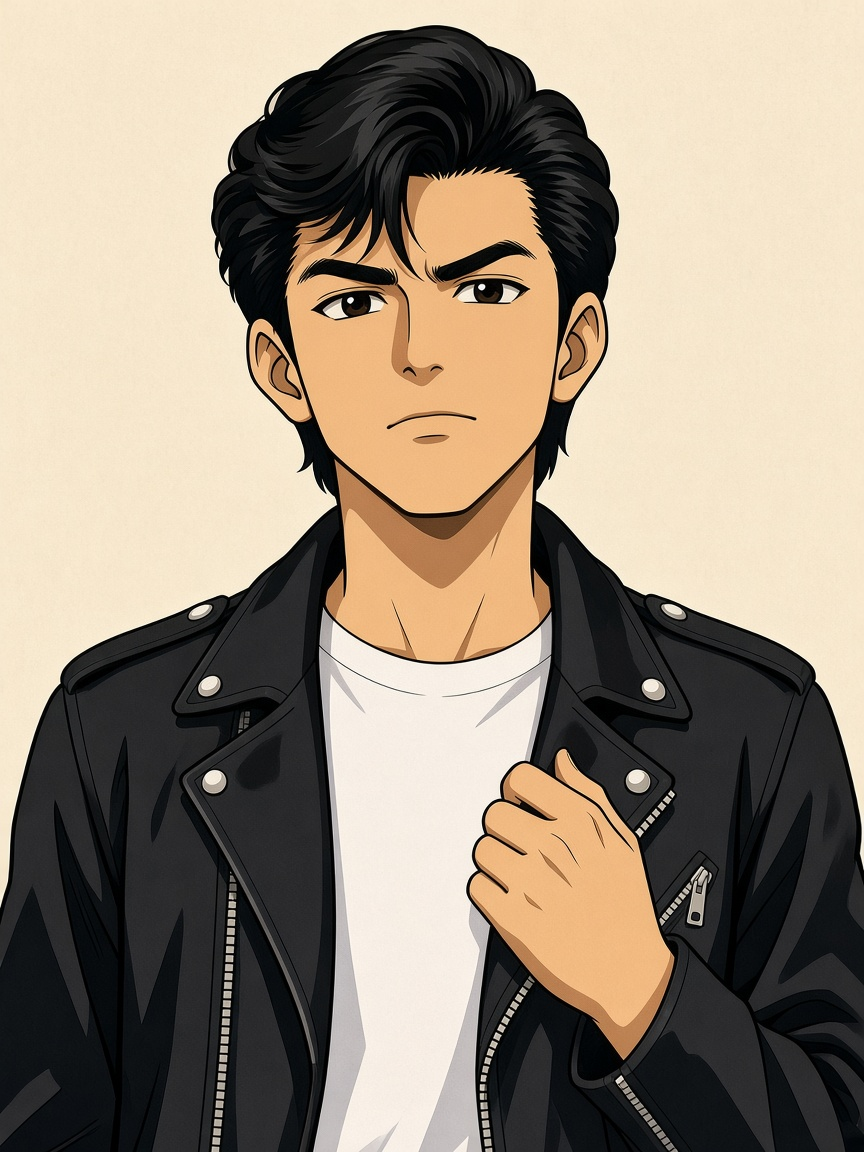
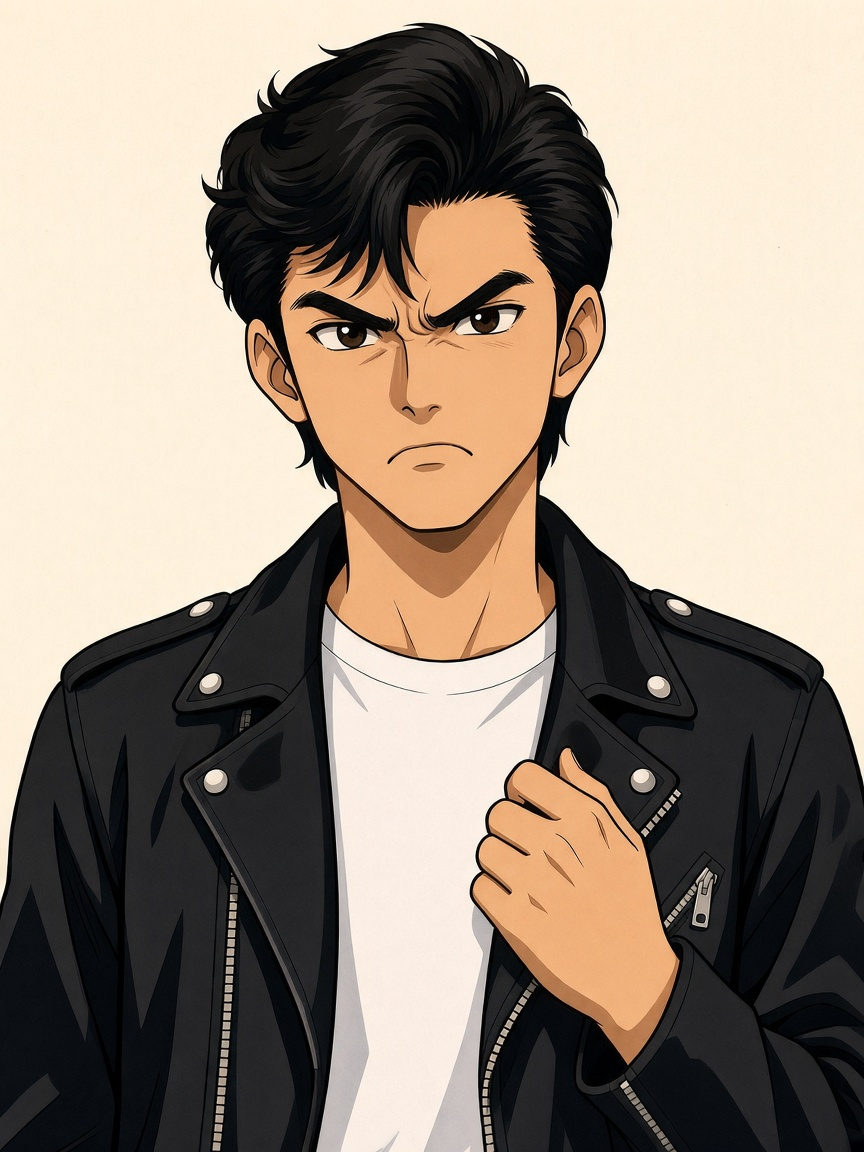
Soft: luk frown Soft nit
Replace only luk_baakyin_bust_frown. Leave default and the #24 smile in place. Note the Soft nit in the era manifest and style canon without rewriting #24 cargo. Bak, QC refs, and composites stay out.

diff --git a/assets/story/era_stars/MANIFEST.md b/assets/story/era_stars/MANIFEST.md
@@ -14,7 +14,7 @@
 | `liu_bingxing_bust_frown.png` | `11582108cabd5d8b7cd53be13788b962` |
 | `liu_bingxing_bust_smile.png` | `9429f734da9f95a6ef172ffeb5fdda6d` |
 | `luk_baakyin_bust_default.png` | `f0bc02d8db898c1d6799b8cabed342c7` |
-| `luk_baakyin_bust_frown.png` | `9e1342229fc79f1aa85ebecb318821d0` |
+| `luk_baakyin_bust_frown.png` | `d379b32269a427c4695399c46c553b3a` |
 | `luk_baakyin_bust_smile.png` | `202a6200b9a7bf019d63d8e5c1dd440c` |
 | `ngai_wingnaam_bust_default.png` | `1729ee30129632fd13ed3bad8a297537` |
 | `ngai_wingnaam_bust_frown.png` | `8a4ef50ea433990fb77dcba4db6d90d4` |
@@ -30,7 +30,7 @@
 
 | id | display | files | dims | notes |
 |---|---|---|---|---|
-| `luk_baakyin` | 陸柏言 | `*_bust_{default,smile,frown}.png` + `*_silhouette_far.png`（**sil v2**） | 864×1152 | **leather v5b**＋**smile Soft nit 2026-11-05**（露齒酒窩）。bak `bak_pre_luk_leather_v5/`＋`bak_pre_soft_nits_expr_20261105/` 留盤，唔入本 PR |
+| `luk_baakyin` | 陸柏言 | `*_bust_{default,smile,frown}.png` + `*_silhouette_far.png`（**sil v2**） | 864×1152 | **leather v5b**＋**smile Soft nit 2026-11-05**（露齒酒窩）＋**frown Soft nit 2026-11-05**（深 V 皺眉＋下撇嘴；MD5 `d379b322`）。default `f0bc02d8`／smile `202a6200` 唔動。bak `bak_pre_luk_leather_v5/`＋`bak_pre_soft_nits_expr_20261105/`＋`bak_pre_luk_frown_soft_nit_20261105/` 留盤，唔入本 PR |
 | `yip_manji` | 葉敏芝 | bust×3 + sil **v2** | 864×1152 | **starlet-v3 2026-11-05**：露肩 dusty-rose；邱淑貞／張敏氣質（禁抄臉）；GenerateImage。bak `bak_pre_yip_starlet_v3/` 留盤，唔入本 PR |
 | `so_jiyan` | 蘇芷茵 | bust×3 + `*_silhouette_far.png`（**sil v2 新建**） | 864×1152 | **jade-v4**＋**smile Soft nit 2026-11-05**（暖笑露齒提示）。bak `bak_pre_so_jade_v4/`＋`bak_pre_soft_nits_expr_20261105/` 留盤，唔入本 PR |
 | `liu_bingxing` | 廖炳星 | bust×3 + sil **v2** | 864×1152 | **chow-vibe v10 2026-11-05**：花恤衫正面；周星馳氣質（禁抄臉）；GenerateImage。bak `bak_pre_liu_chow_v10/` 留盤，唔入本 PR |
@@ -51,7 +51,7 @@
 
 ## Soft nits（唔擋；Soft≠PASS）
 
-1. `luk_baakyin` smile Soft nit **2026-11-05 已換**（露齒＋酒窩；MD5 `202a6200`）；frown↔default 眉差仍可再拉開（本輪未動 frown）  
+1. `luk_baakyin` smile Soft nit **2026-11-05 已換**（露齒＋酒窩；MD5 `202a6200`）；**frown Soft nit 2026-11-05 已換**（深 V 皺眉＋鼻樑壓＋下撇嘴；MD5 `d379b322`；對開 default smirk／smile 露齒）。Soft nits（唔擋）：怒氣線可再強；眉峰 V 可再銳  
 2. `so_jiyan` smile Soft nit **2026-11-05 已換**（暖笑露齒提示；MD5 `0b819961`）；能量仍可再推  
 3. `ngai_wingnaam` Soft nits expr **2026-11-05 已換×3**（default／smile／frown MD5 `1729ee30`／`fea5a476`／`8a4ef50e`）；**年齡仍偏嫩**（~38 未清）。kara-v2 已由 v5 取代，唔再係 live  
 4. `yip_manji` starlet-v3：咬唇／眨眼能量仍可再推；default↔smile 差可再拉開  
@@ -87,9 +87,19 @@ Soft≠PASS｜唔 tip LIVE｜唔 wake iOS｜89–92 HOLD｜silhouettes v2 Soft t
 
 `/workspace/star-volunteer-web-era-soft-nits-expr.tar.gz`（so smile＋luk smile＋ngai×3 live；`bak_pre_soft_nits_expr_20261105/` 留盤，唔入本 PR）
 
+`/workspace/star-volunteer-web-luk-frown-soft-nit.tar.gz`（只換 live `luk_baakyin_bust_frown.png`；bak／`_qc_refs`／QA composite 唔入本 PR）
+
 ## Related
 
 - Prior MVP：`/workspace/star-volunteer-web-era-stars-mvp.tar.gz`；ngai fix `/workspace/star-volunteer-web-era-ngai-cork-fix.tar.gz`
 - Core style-lock：`/workspace/star-volunteer-web-style-lock-core-busts.tar.gz`
 - Cheung style-lock：`/workspace/star-volunteer-web-style-lock-cheung.tar.gz`
 - QA：`/workspace/qa-gd-style-lock-era-20261105.md`
+
+## luk frown Soft nit 2026-11-05 (Asia/Hong_Kong)
+- 只換 live：`luk_baakyin_bust_frown.png` MD5 `d379b32269a427c4695399c46c553b3a`
+- 唔動：default `f0bc02d8db898c1d6799b8cabed342c7`；smile `202a6200b9a7bf019d63d8e5c1dd440c`（Soft tip #24）
+- 對開舊 frown：`9e1342229fc79f1aa85ebecb318821d0`。bak `bak_pre_luk_frown_soft_nit_20261105/` 留盤、唔入本 PR
+- Soft nits（唔擋 Soft tip）：怒氣線可再強；眉峰 V 可再銳
+- Soft≠PASS｜唔 tip LIVE｜唔抬 ?v=｜89–92 HOLD
+- Pack：`/workspace/star-volunteer-web-luk-frown-soft-nit.tar.gz`

diff --git a/assets/STYLE_CANON.md b/assets/STYLE_CANON.md
@@ -64,3 +64,11 @@
 - Soft nits（唔擋 Soft tip）：額上橫紋偏強（尤其 hero）；Cheung 挑眉峰仍可再抬
 - Soft≠PASS；唔 tip LIVE；`?v=` 仍 `19w`；SAVE `starVolunteer_map_v19w`；89–92 HOLD
 - Pack：`/workspace/star-volunteer-web-raise-brow-soft-nit.tar.gz`
+
+## luk frown Soft nit（2026-11-05 Asia/Hong_Kong）
+
+- 只換：`story/era_stars/luk_baakyin_bust_frown.png` MD5 `d379b322`。default `f0bc02d8`／smile `202a6200` 唔動（smile 來自 Soft tip #24）
+- 對開舊 frown `9e134222`。bak `era_stars/bak_pre_luk_frown_soft_nit_20261105/` 留盤、唔入本 PR
+- Soft nits（唔擋 Soft tip）：怒氣線可再強；眉峰 V 可再銳
+- Soft≠PASS；唔 tip LIVE；`?v=` 仍 `19w`；SAVE `starVolunteer_map_v19w`；89–92 HOLD
+- Pack：`/workspace/star-volunteer-web-luk-frown-soft-nit.tar.gz`
